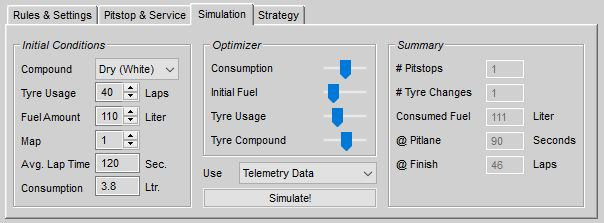
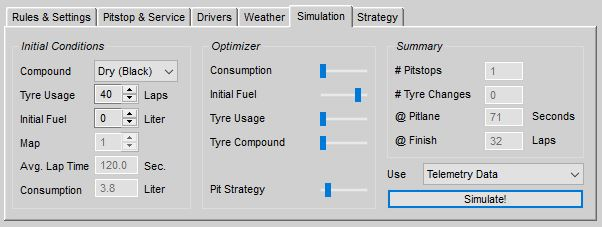
Pit strategy

diff --git a/Docs/Virtual Race Strategist.md b/Docs/Virtual Race Strategist.md
@@ -679,6 +679,10 @@ Enter the required values in the *Initial Conditions* group, choose the data to 
 	
 	Important to understand: The simulation will use only those tyre compounds, for which telemtry data is available. So even, if you enetered a soft dry compound into the list of available tyre sets for example, it might never be used, if there is no data available. So be sure to have driven and recorded at least a couple of laps in varying conditions with all tyre compounds, which are available for the given car / track combination.
 
+  - Pit Strategy
+    
+	This slider let you define the weight of the first stint. Move it to the left and an early first stop is preferred, move it to the right and a late stop will be preferred. This is a useful setting for sprint races with one required pitstop, to get out of traffic as early as possible or to create a splash n dash strategy for races without a required tyre change.
+
 For every slider not at the zero position, different variations of the underlying value will be created as strategy sceanrios, which will be compared at the end for better results. The number of variations depend on the slider position. The slider more to the right will result in more variations.
 
 You can use the commands in the *Simulation* drop down menu to start a simulation (similar to use the "Simulate!" button), and to copy the current results over to the *Strategy* tab. If you hold the Control key while pressing the "Simulate!" button or choosing the corresponding menu item, the selected scenario will be copied to the *Strategy* tab after the simulation.
